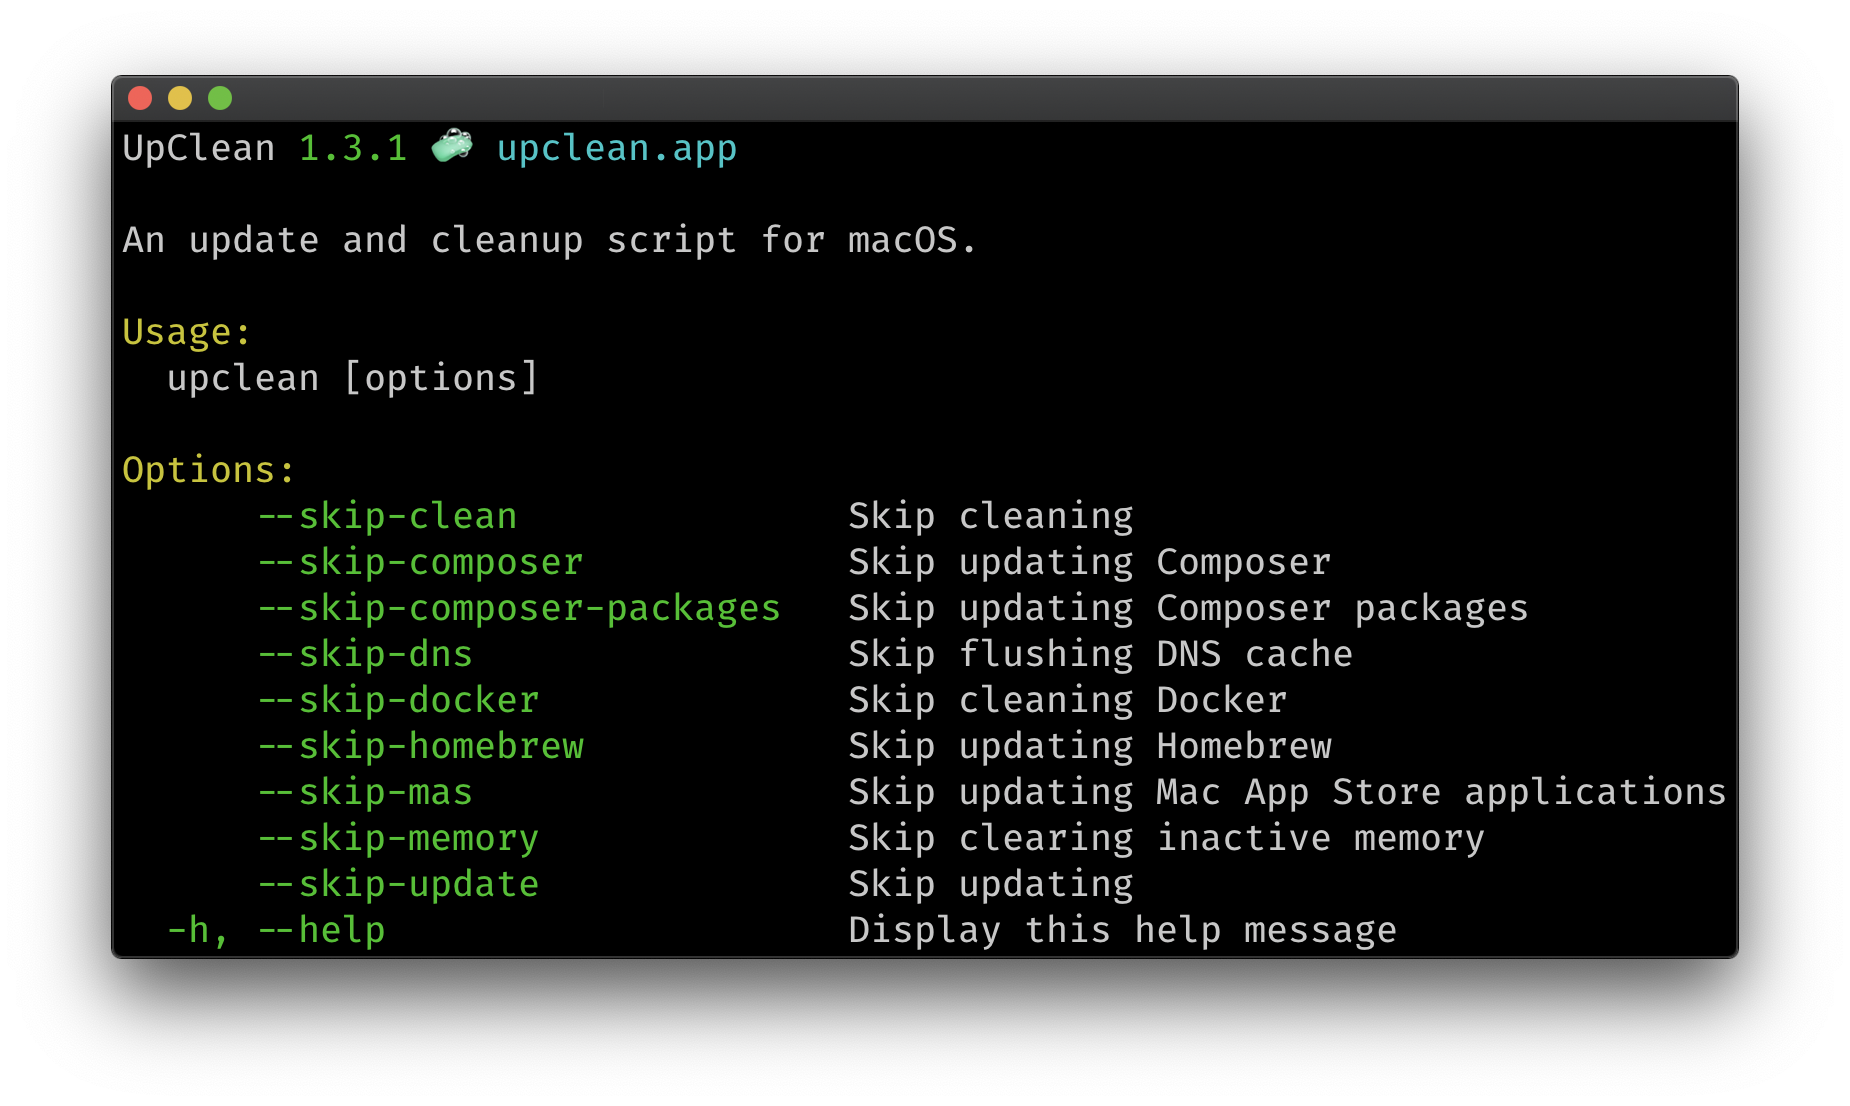
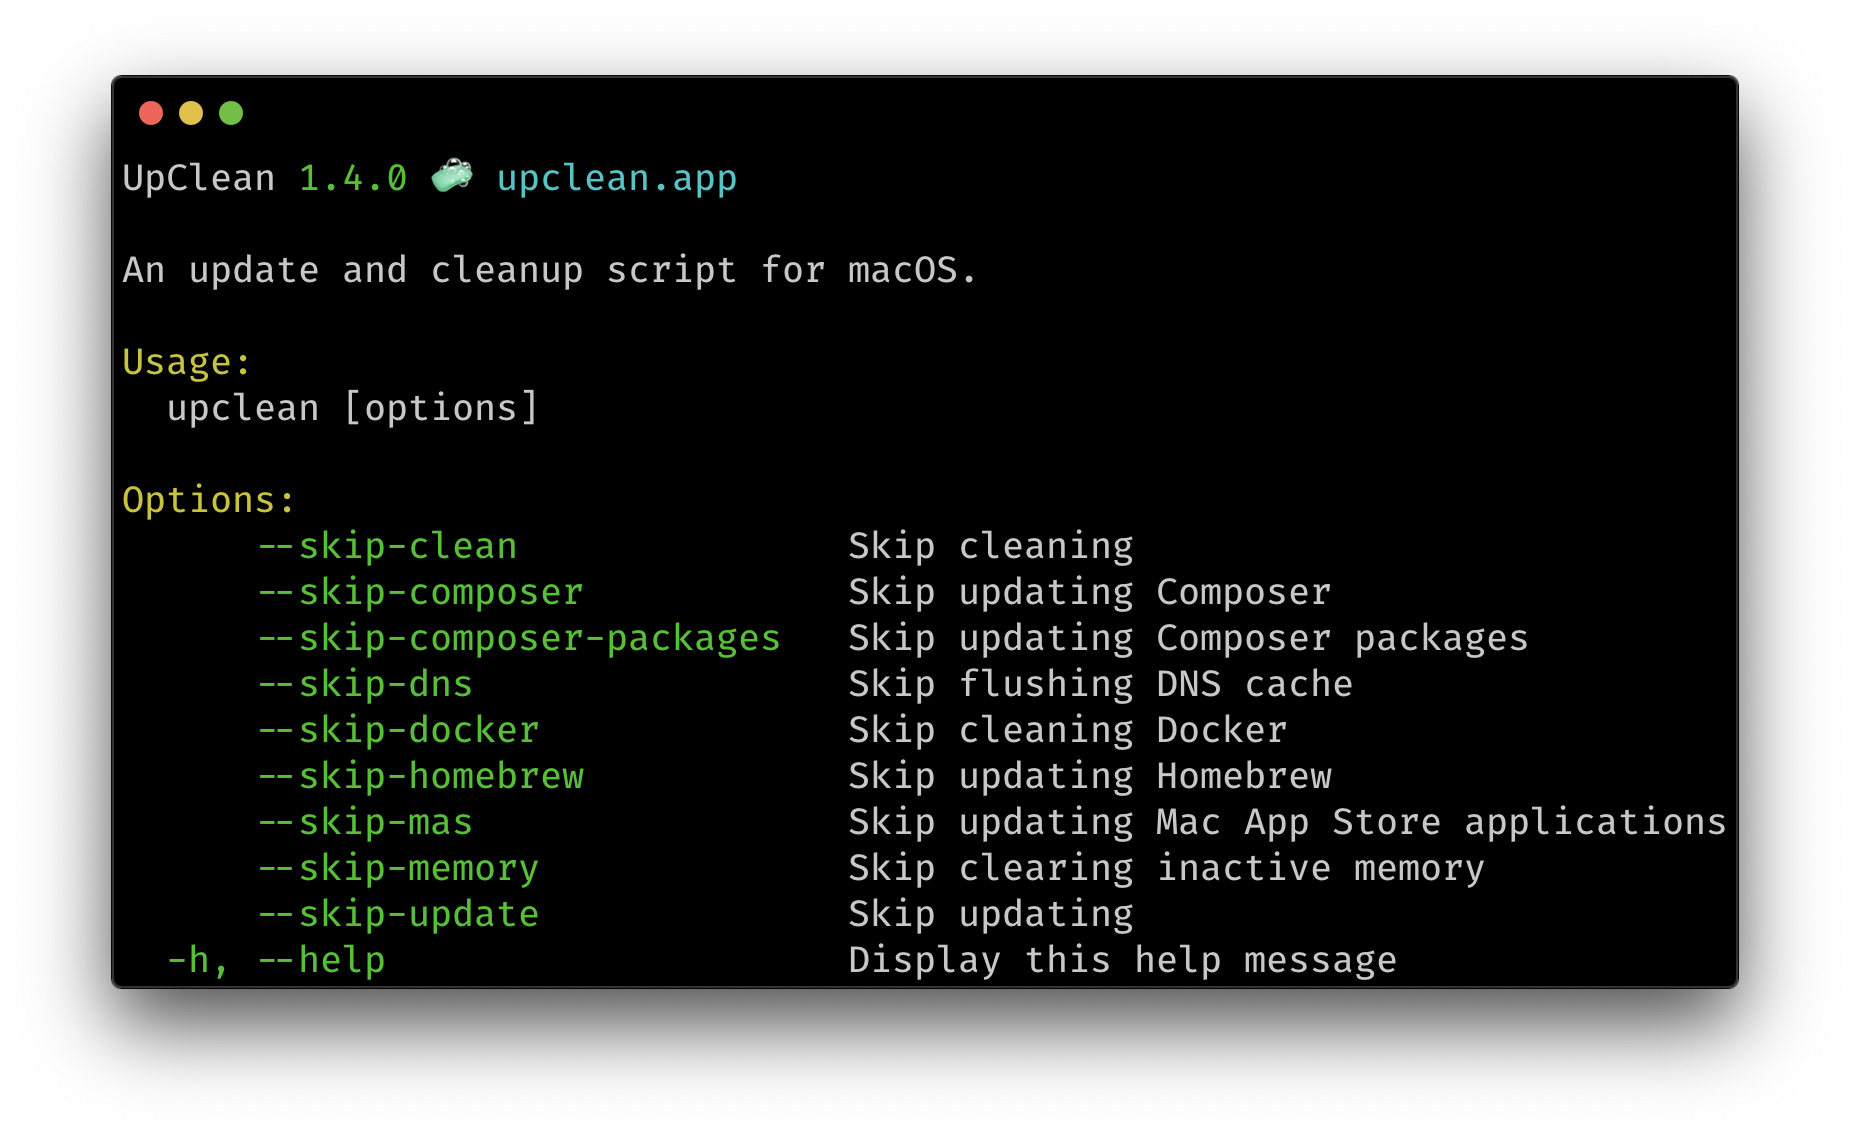
Correctly display amount of disk space cleaned
- Fix disk space calculation
- Update version

diff --git a/readme.md b/readme.md
@@ -33,7 +33,7 @@ mv upclean /usr/local/bin/upclean
 ```
 $ upclean --help
 
-UpClean 1.3.1 🧼 upclean.app
+UpClean 1.4.0 🧼 upclean.app
 
 An update and cleanup script for macOS.
 
